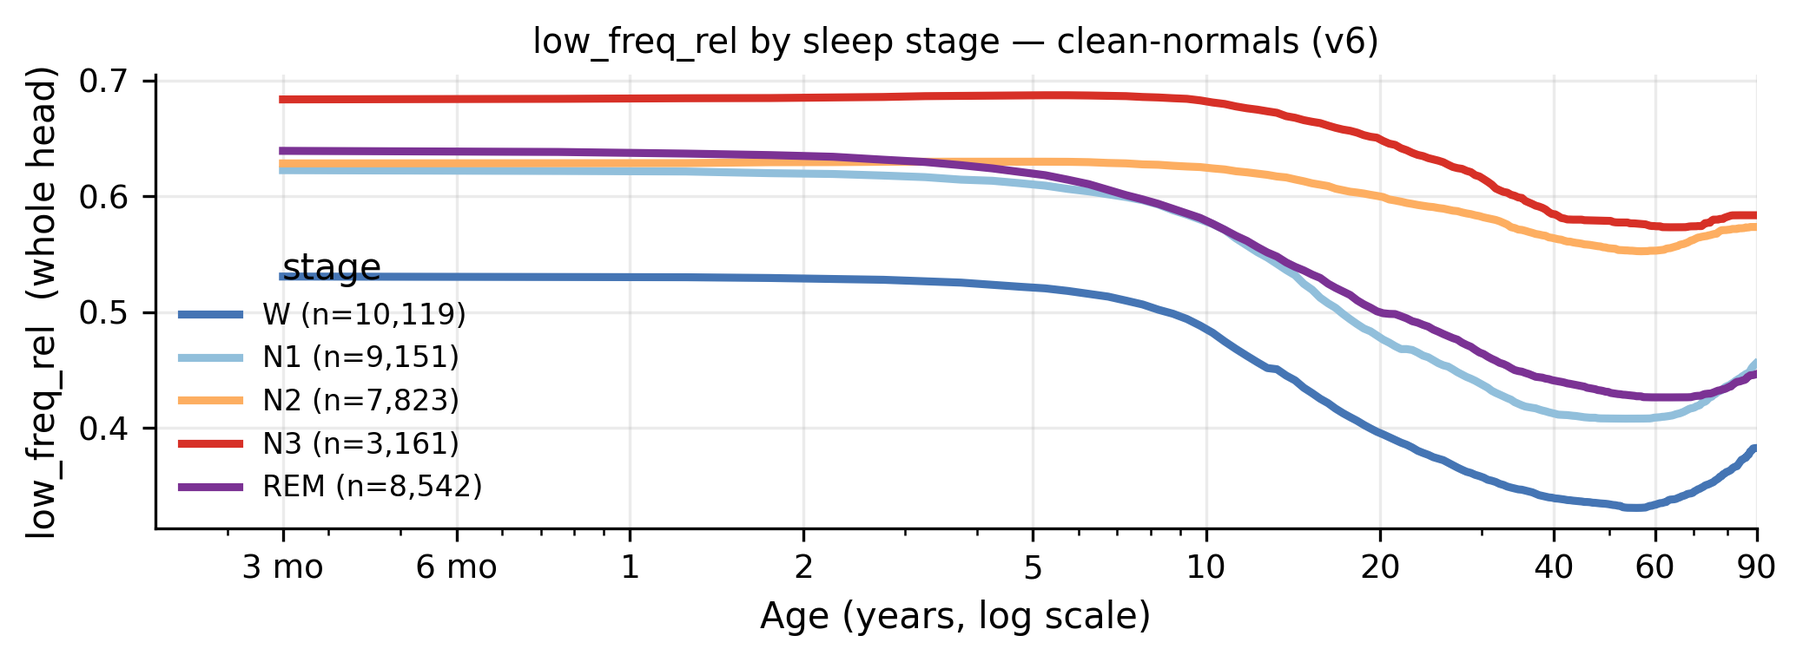
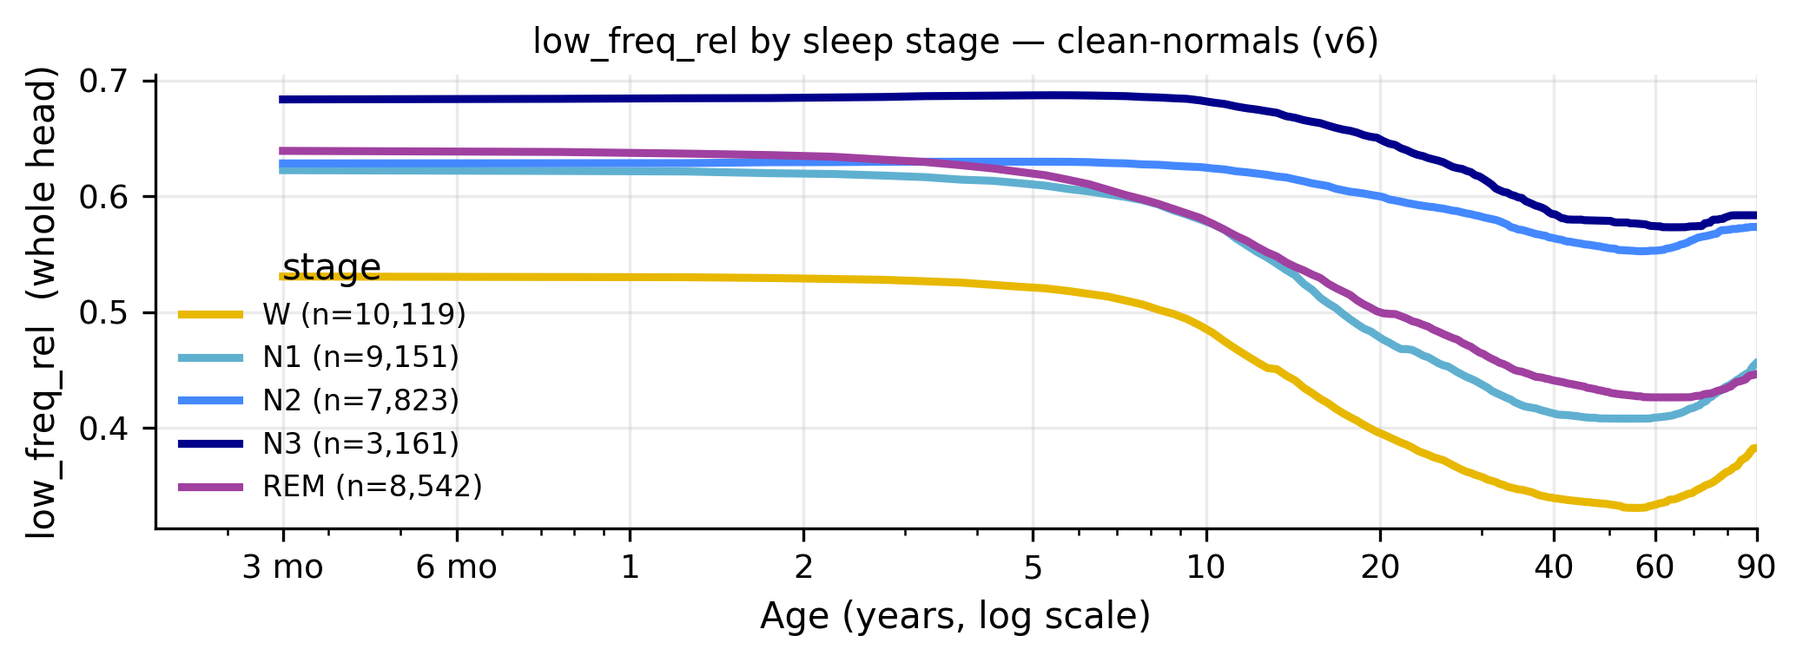
Figure-set pass: one stage palette, one ROC geometry, one expert-count convention
The figure checker's second round found the figures individually close but the SET
incoherent, with nine blocking items. Addressed:

* **Figure S9 carried the in-figure title "Figure S1"** — the actual S1 is the
  architecture schematic, so every cross-reference to the severity null would have landed
  on the wrong figure. The display items were renumbered at some point and this one was
  missed. In-figure titles are now gone from S6 and S9 as well (they belong in captions),
  which is also the class of bug that cannot recur once the title lives in one place.
* **Two contradictory sleep-stage colour maps.** Figure 1A had W gold / N3 navy; Figure S5
  had W dark blue / N3 red — same five categories, unrelated hues, so a reader who learned
  either was misled by the other. One mapping now lives in `viz/palette.STAGE` and both
  read from it.
* **Four ROC figures at four aspect ratios.** Both axes are 0-1 probability scales, so the
  chance diagonal was at 45 deg in two figures and flattened in two others, making curve
  shape and expert-cloud dispersion incomparable for purely geometric reasons.
  `aspect="equal"` on every ROC/PRC axis in scripts 54, 55, 49, sandor100 and
  vanputten_panel_s7 — and S3 got the extra height that square axes need.
* **Four phrasings of "% experts under the curve"**, with a denominator of 14-18, implying
  precision the panels do not have. Now one convention everywhere: `15/18 experts under`.
[…]

diff --git a/scripts/109_severity_null_v6.py b/scripts/109_severity_null_v6.py
@@ -1,7 +1,7 @@
 #!/usr/bin/env python3
-"""Figure S1 — "severity is a null result", regenerated on v6.
+"""Figure S9 — "severity is a null result", regenerated on v6.
 
-The manuscript's Figure S1 says: our continuous deviation score does NOT track the reader's
+The manuscript's Figure S9 says: our continuous deviation score does NOT track the reader's
 mild/moderate/marked adjective, and that this stays true when the fragile max-statistic is replaced with a
 robust upper quantile. The figure on disk was produced by scripts/86 from the LEGACY tables (pre-label-fix,
 pre-age-fix), so it was the last stale figure in the paper.
@@ -97,25 +97,32 @@ def main():
     m = rec[rec.rep_sev.notna() & rec.rep_sev.between(1, 3)]
     print(f"recordings with a reader severity adjective (clean_pair): {len(m):,}")
 
-    fig, axes = plt.subplots(1, 2, figsize=(7.1, 3.10), sharey=False)
+    fig, axes = plt.subplots(1, 2, figsize=(7.1, 3.35), sharey=False)
     lines = []
-    for ax, stat in zip(axes, ["MAX", "P95"]):
+    for i, (ax, stat) in enumerate(zip(axes, ["MAX", "P95"])):
         groups = [m[m.rep_sev == k][stat].dropna().values for k in (1, 2, 3)]
         rho, p = spearmanr(m.rep_sev.values, m[stat].values)
         kp = kruskal(*groups).pvalue if all(len(g) > 2 for g in groups) else np.nan
         ax.boxplot(groups, tick_labels=[f"{SEV_LBL[k]}\n(n={len(g)})" for k, g in zip((1, 2, 3), groups)],
                    showfliers=False, medianprops=dict(color="#d95f02", lw=2))
-        ax.set_title(f"{stat} of |z|   ·   Spearman ρ = {rho:+.3f} (p = {p:.2g})", fontsize=10)
-        ax.set_xlabel("reader's severity adjective"); ax.set_ylabel("deviation from age-matched normal (|z|)")
+        # The long y-label used to run up into this title. Both are trimmed and a panel letter added.
+        ax.set_title(f"{stat} of |z|\nSpearman ρ = {rho:+.3f} (p = {p:.2g})", fontsize=9)
+        ax.text(-0.20, 1.03, "AB"[i], transform=ax.transAxes, fontsize=11, fontweight="bold",
+                va="bottom", ha="left")
+        ax.set_xlabel("reader's severity adjective", fontsize=9)
+        ax.set_ylabel("deviation from matched normal, |z|", fontsize=9)
         ax.grid(alpha=.25, axis="y")
         med = [float(np.median(g)) for g in groups]
         lines.append(f"| {stat} | {rho:+.3f} | {p:.2g} | {kp:.2g} | " +
                      " → ".join(f"{v:.2f}" for v in med) + f" | {len(m):,} |")
         print(f"  {stat:4s} Spearman rho={rho:+.3f} (p={p:.2g})  medians mild→marked: "
               f"{med[0]:.2f} → {med[1]:.2f} → {med[2]:.2f}")
-    fig.suptitle("Figure S1 — Severity is a null result (v6, corrected labels + exact ages)", fontsize=12)
+    # NO in-figure title. It used to read "Figure S1", which is the architecture schematic -- the display
+    # items were renumbered and this one was missed, so every cross-reference to it landed on the wrong
+    # figure. Titles now live in the captions (docs/manuscript_draft.md), where a renumber cannot desync them.
     fig.tight_layout()
-    fig.savefig("figures/growth_v2/severity_recalibrated.png", dpi=300)
+    fig.tight_layout()
+    fig.savefig("figures/growth_v2/severity_recalibrated.png", dpi=300, bbox_inches="tight")
     plt.close(fig)
 
     # ---- robustness sweep -------------------------------------------------------------------------
@@ -164,7 +171,7 @@ def main():
           f"{n_sig} clear Bonferroni (p < {bonf:.2g})")
 
     Path("results/severity_null_v6.md").write_text(
-        "# Figure S1 — severity is a null result (regenerated on v6)\n\n"
+        "# Figure S9 — severity is a null result (regenerated on v6)\n\n"
         "Our continuous deviation score against the reader's own **mild / moderate / marked** adjective, on "
         f"**{len(m):,}** cleanly-paired recordings. Two summary statistics are compared: the fragile **MAX** "
         "over each recording's region×stage deviation cells (one artifactual cell can set it) and a robust "

diff --git a/scripts/55_recording_model.py b/scripts/55_recording_model.py
@@ -136,19 +136,25 @@ def main():
                 fig, (a0, a1) = plt.subplots(1, 2, figsize=(7.1, 2.96)); a0.plot([0, 1], [0, 1], "--", color="#ccc", lw=1)
                 for cur2, lab, cc in [(cm, "Morgoth", C_MORG), (cur, "LENS", C_OURS)]:
                     ci = f" [{lo:.2f}–{hi:.2f}]" if lab == "LENS" else ""
-                    a0.plot(cur2["fpr"], cur2["tpr"], color=cc, lw=2.4, label=f"{lab} (AUROC {cur2['auc']:.2f}{ci}, {cur2['ur']:.0f}% under)")
-                    a1.plot(cur2["rec"], cur2["prec"], color=cc, lw=2.4, label=f"{lab} (AP {cur2['ap']:.2f}, {cur2['up']:.0f}% under)")
+                    a0.plot(cur2["fpr"], cur2["tpr"], color=cc, lw=2.4, label=f"{lab}  {cur2['auc']:.2f}{ci}\n{round(cur2['ur']*len(pts)/100)}/{len(pts)} experts under")
+                    a1.plot(cur2["rec"], cur2["prec"], color=cc, lw=2.4, label=f"{lab}  AP {cur2['ap']:.2f}\n{round(cur2['up']*len(pts)/100)}/{len(pts)} experts under")
                 for r, p in pts.items():
                     a0.plot(p["fpr"], p["tpr"], "o", ms=5, mfc="#999", mec="k", mew=.3, alpha=.75)
                     if np.isfinite(p["precision"]): a1.plot(p["recall"], p["precision"], "o", ms=5, mfc="#999", mec="k", mew=.3, alpha=.75)
                 a0.plot([], [], "o", mfc="#999", mec="k", label=f"{len(pts)} experts")
                 a1.axhline(y.mean(), ls="--", color="#ccc", lw=1)
                 a0.set_xlabel("1 − specificity"); a0.set_ylabel("sensitivity"); a0.set_title(f"{tag.upper()} — ROC", fontsize=11)
+                # ROC and PRC axes are both 0-1 probability scales, so the chance diagonal must be at 45 deg.
+                # Without this the four ROC figures render at four aspect ratios and curve "squareness" is
+                # not comparable between them.
+                a0.set_aspect("equal", adjustable="box"); a1.set_aspect("equal", adjustable="box")
                 a1.set_xlabel("recall"); a1.set_ylabel("precision"); a1.set_title(f"{tag.upper()} — PRC", fontsize=11)
-                a0.legend(frameon=False, fontsize=6.5, loc="lower right", handlelength=1.2, borderaxespad=0.3)
+                a0.legend(frameon=False, fontsize=6.0, loc="lower right", handlelength=1.0,
+                      borderaxespad=0.2, labelspacing=0.35, handletextpad=0.5)
                 # PRC curves live along the TOP of the panel, so an upper-right legend overprints them
                 # (round-1 render: the LENS-v2 entry was struck through by its own curve). Bottom-left is empty.
-                a1.legend(frameon=False, fontsize=6.5, handlelength=1.2, borderaxespad=0.3, loc="lower left")
+                a1.legend(frameon=False, fontsize=6.0, handlelength=1.0, borderaxespad=0.2,
+                      labelspacing=0.35, handletextpad=0.5, loc="lower left")
                 for a in (a0, a1): a.set_xlim(-.02, 1.02); a.set_ylim(-.02, 1.02)
                 # Title in the caption, not in the image (Clinical Neurophysiology). The subplot titles still
                 # carry the axis identity (GENERALIZED/FOCAL - ROC/PRC), and dropping the suptitle buys the

diff --git a/scripts/vanputten_panel_s7.py b/scripts/vanputten_panel_s7.py
@@ -98,12 +98,14 @@ def main():
     vp_gen, vp_foc = vanputten_panel_indices()
     vp_by_axis = {"generalized": vp_gen, "focal": vp_foc}
 
-    fig, axes = plt.subplots(1, 2, figsize=(7.1, 2.96)); md = ["# Figure S7 — van Putten vs LENS vs Morgoth on the "
+    # Square ROC axes need vertical room: at 2.96 in the two panels collapsed to narrow squares and the
+    # legends overflowed across them. Taller canvas + two-line legend labels, as in Figure 2.
+    fig, axes = plt.subplots(1, 2, figsize=(7.1, 3.95)); md = ["# Figure S3 — van Putten vs LENS vs Morgoth on the "
         "CLEAN ON-100 expert panel (fair benchmark; expert-majority labels)\n",
         "LENS = production code path (gen: scripts/54 MIL top-5; focal: scripts/66), identical to Figure 2. "
         "van Putten = best index per axis recomputed on the panel. Recording-level bootstrap 95% CIs.\n",
         "| axis | method | AUROC [95% CI] | % experts under ROC |", "|---|---|---|---|"]
-    for ax, axis in zip(axes, ["focal", "generalized"]):
+    for axi, (ax, axis) in enumerate(zip(axes, ["focal", "generalized"])):
         wide, morg = em[axis]
         idx = wide.index
         y_all = (wide.mean(axis=1).to_numpy() >= 0.5).astype(int)
@@ -124,15 +126,20 @@ def main():
             lo, hi = m54.boot_ci(y, s)
             short = name.split(" (")[0]
             ax.plot(cur["fpr"], cur["tpr"], color=c, lw=2.4,
-                    label=f"{short} (AUROC {cur['auc']:.2f} [{lo:.2f}–{hi:.2f}], {cur['ur']:.0f}% under)")
+                    label=f"{short}  {cur['auc']:.2f} [{lo:.2f}\u2013{hi:.2f}]\n"
+                          f"{round(cur['ur']*len(pts)/100)}/{len(pts)} experts under")
             md.append(f"| {axis} | {name} | {cur['auc']:.3f} [{lo:.3f}, {hi:.3f}] | {cur['ur']:.0f}% |")
         idx = idx[common]
         for p in pts.values():
             ax.plot(p["fpr"], p["tpr"], "o", ms=5, mfc="#999", mec="k", mew=.3, alpha=.75)
         ax.plot([], [], "o", mfc="#999", mec="k", label=f"{len(pts)} experts")
+        ax.set_aspect("equal", adjustable="box")   # match Figures 2/3/S7: chance at 45 deg
+        ax.text(-0.22, 1.04, "AB"[axi], transform=ax.transAxes, fontsize=11, fontweight="bold",
+                va="bottom", ha="left")
         ax.set_xlabel("1 − specificity"); ax.set_ylabel("sensitivity"); ax.set_xlim(-.02, 1.02); ax.set_ylim(-.02, 1.02)
-        ax.set_title(f"{axis.upper()} slowing — n={len(idx)}, {int(y.sum())} pos", fontsize=11)
-        ax.legend(frameon=False, fontsize=8, loc="lower right")
+        ax.set_title(f"{axis.upper()} slowing\nn={len(idx)}, {int(y.sum())} positive", fontsize=9)
+        ax.legend(frameon=False, fontsize=6.0, loc="lower right", handlelength=1.0,
+                  borderaxespad=0.2, labelspacing=0.35, handletextpad=0.5)
     # Title in the Figure S3 caption, not in the image (Clinical Neurophysiology).
     fig.tight_layout()
     fig.savefig(FIG / "vanputten_panel_s7.png", dpi=300, bbox_inches="tight"); plt.close(fig)

diff --git a/scripts/49_occasion_allstage_localized.py b/scripts/49_occasion_allstage_localized.py
@@ -137,17 +137,28 @@ def evaluate(T, V, name, ax, cols, color):
     for r, pp in pts.items():
         a0.plot(pp["fpr"], pp["tpr"], "o", ms=6, mfc=("#888" if fr.get(r) else "#e41a1c"), mec="k", mew=.4, alpha=.85)
     a0.plot([], [], "o", mfc="#888", mec="k", label=f"under ({sum(fr.values())})"); a0.plot([], [], "o", mfc="#e41a1c", mec="k", label=f"above ({len(pts)-sum(fr.values())})")
-    a0.set_xlabel("1 − specificity"); a0.set_ylabel("sensitivity"); a0.set_title(f"{name.upper()} — ROC\n{100*pu_roc:.0f}% of {len(pts)} experts under", fontsize=10)
+    a0.set_aspect("equal", adjustable="box")   # match Figures 2/3/S3: chance at 45 deg
+    a0.set_xlabel("1 − specificity"); a0.set_ylabel("sensitivity")
+    a0.set_title(f"{name.upper()} — ROC\n{sum(fr.values())}/{len(pts)} experts under", fontsize=9.5)
     a0.legend(frameon=False, fontsize=7.5, loc="lower right"); a0.set_xlim(-.02, 1.02); a0.set_ylim(-.02, 1.02)
     a1.plot(rec, prec, color=color, lw=2.4, label=f"LENS (AP {ap:.2f})"); a1.axhline(y.mean(), ls="--", color="#bbb", lw=1, label=f"prev {y.mean():.2f}")
     for r, pp in pts.items():
         if np.isfinite(pp["precision"]):
             a1.plot(pp["recall"], pp["precision"], "o", ms=6, mfc=("#888" if fp.get(r) else "#e41a1c"), mec="k", mew=.4, alpha=.85)
     a1.plot([], [], "o", mfc="#888", mec="k", label=f"under ({sum(fp.values())})"); a1.plot([], [], "o", mfc="#e41a1c", mec="k", label=f"above ({len(fp)-sum(fp.values())})")
-    a1.set_xlabel("recall"); a1.set_ylabel("precision"); a1.set_title(f"{name.upper()} — PRC\n{100*pu_pr:.0f}% of {len(fp)} under", fontsize=10)
+    a1.set_aspect("equal", adjustable="box")
+    a1.set_xlabel("recall"); a1.set_ylabel("precision")
+    a1.set_title(f"{name.upper()} — PRC\n{sum(fp.values())}/{len(fp)} experts under", fontsize=9.5)
     a1.legend(frameon=False, fontsize=7.5, loc="upper right"); a1.set_xlim(-.02, 1.02); a1.set_ylim(-.02, 1.02)
-    fig.suptitle(f"Morgoth-FREE {'+'.join(STAGESET)} {name} detector vs {len(pts)} experts (LOO-CV)", fontsize=10.5)
-    fig.tight_layout(rect=[0, 0, 1, 0.93]); fig.savefig(FIG / f"s0_occasion_ours_v4_{name}.png", dpi=300); plt.close(fig)
+    # No in-figure title, and no "Morgoth-FREE": across the figure set "Morgoth" already names the sleep
+    # stager (Figure S1) and the reference detector (Figures 2, 3, S3), and using it a third time as a
+    # negation made it unclear whether this evaluates the same LENS as Figure 2. It does. Title is in the
+    # Figure S7 caption.
+    for k, a in enumerate((a0, a1)):
+        a.text(-0.14, 1.02, chr(65 + k), transform=a.transAxes, fontsize=11, fontweight="bold",
+               va="bottom", ha="left")
+    fig.tight_layout()
+    fig.savefig(FIG / f"s0_occasion_ours_v4_{name}.png", dpi=300, bbox_inches="tight"); plt.close(fig)
     return f"| {name} | {'+'.join(STAGESET)} | {int(y.sum())}/{len(y)} | {auc:.3f} | {ap:.3f} | {len(pts)} | **{100*pu_roc:.0f}%** | **{100*pu_pr:.0f}%** |"
 
 

diff --git a/scripts/sandor100_external_validation.py b/scripts/sandor100_external_validation.py
@@ -126,17 +126,19 @@ def eval_axis(scores, axis, mr_file, ax):
         cur = m54.panel_curve(None, y[ok], s[ok], pts, c, name)
         lo, hi = m54.boot_ci(y[ok], s[ok])
         ax.plot(cur["fpr"], cur["tpr"], color=c, lw=2.4,
-                label=f"{name} (AUROC {cur['auc']:.2f} [{lo:.2f}–{hi:.2f}], {cur['ur']:.0f}% under)")
+                label=f"{name} (AUROC {cur['auc']:.2f} [{lo:.2f}\u2013{hi:.2f}], "
+                          f"{round(cur['ur']*len(pts)/100)}/{len(pts)} experts under)")
         res.append((name, cur["auc"], lo, hi, cur["ur"], cur["ap"]))
     for r, p in pts.items():
         ax.plot(p["fpr"], p["tpr"], "o", ms=5, mfc="#999", mec="k", mew=.3, alpha=.75)
     ax.plot([], [], "o", mfc="#999", mec="k", label=f"{len(pts)} experts")
+    ax.set_aspect("equal", adjustable="box")   # 0-1 on both axes: chance must sit at 45 deg
     ax.set_xlabel("1 − specificity"); ax.set_ylabel("sensitivity"); ax.set_xlim(-.02, 1.02); ax.set_ylim(-.02, 1.02)
     # At page width the two titles collide and the long legend labels overrun the y-axis, so the title wraps
     # onto two lines and the legend is sized to sit inside its own axes.
     ttl = "FOCAL slowing" if axis == "focal" else "GENERALIZED slowing"
     ax.set_title(f"{ttl}\nn={len(m)}, {int(y.sum())} positive", fontsize=8.5)
-    ax.legend(frameon=False, fontsize=5.6, loc="lower right", handlelength=1.2, borderaxespad=0.3)
+    ax.legend(frameon=False, fontsize=6.2, loc="lower right", handlelength=1.2, borderaxespad=0.3)
     ax.tick_params(labelsize=7)
     ax.xaxis.label.set_size(8); ax.yaxis.label.set_size(8)
     return res, len(m), int(y.sum()), len(pts)
@@ -152,8 +154,12 @@ def main():
     fig, (a0, a1) = plt.subplots(1, 2, figsize=(7.1, 2.96))
     rf, nf, pf, ne = eval_axis(scores, "focal", "FocalSlowingOutput_Morgoth_ScoreAI_experts.xlsx", a0)
     rg, ng, pg, _ = eval_axis(scores, "generalized", "GenSlowingOutput_Morgoth_ScoreAI_experts.xlsx", a1)
-    fig.suptitle(f"SAI-100 external validation — LENS vs SCORE-AI vs Morgoth vs {ne} experts", fontsize=9.5)
-    fig.tight_layout(rect=[0, 0, 1, 0.93]); fig.savefig(FIG / "sandor100_slowing.png", dpi=300); plt.close(fig)
+    # Title in the Figure 3 caption (Clinical Neurophysiology); panel letters so the two axes are citable.
+    for k, a in enumerate((a0, a1)):
+        a.text(-0.14, 1.02, chr(65 + k), transform=a.transAxes, fontsize=11, fontweight="bold",
+               va="bottom", ha="left")
+    fig.tight_layout()
+    fig.savefig(FIG / "sandor100_slowing.png", dpi=300, bbox_inches="tight"); plt.close(fig)
 
     md = ["# SAI-100 (SCORE-AI validation set) — external validation: LENS vs SCORE-AI vs Morgoth vs experts\n",
           f"Full pipeline (extraction → **Morgoth ss_hm_1 sleep staging** → age+stage-matched deviation → the "

diff --git a/scripts/54_single_model_train_eval.py b/scripts/54_single_model_train_eval.py
@@ -167,8 +167,8 @@ def main():
                 ok = np.isfinite(s) & np.isfinite(y.values)
                 cur = panel_curve(a0, y.values[ok], s[ok], pts, cc, ver)
                 lo, hi = boot_ci(y.values[ok], s[ok])
-                a0.plot(cur["fpr"], cur["tpr"], color=cc, lw=2.4, label=f"{ver} (AUROC {cur['auc']:.2f} [{lo:.2f}–{hi:.2f}], {cur['ur']:.0f}% under)")
-                a1.plot(cur["rec"], cur["prec"], color=cc, lw=2.4, label=f"{ver} (AP {cur['ap']:.2f}, {cur['up']:.0f}% under)")
+                a0.plot(cur["fpr"], cur["tpr"], color=cc, lw=2.4, label=f"{ver}  {cur['auc']:.2f} [{lo:.2f}\u2013{hi:.2f}]\n{round(cur['ur']*len(pts)/100)}/{len(pts)} experts under")
+                a1.plot(cur["rec"], cur["prec"], color=cc, lw=2.4, label=f"{ver}  AP {cur['ap']:.2f}\n{round(cur['up']*len(pts)/100)}/{len(pts)} experts under")
                 md.append(f"| {ds} | {tag} | {ver} | {cur['auc']:.3f} [{lo:.3f}, {hi:.3f}] | {cur['ap']:.3f} | "
                           f"{cur['ur']:.0f}% | {cur['up']:.0f}% |")
             for r, p in pts.items():
@@ -178,11 +178,17 @@ def main():
             a0.plot([], [], "o", mfc="#999", mec="k", label=f"{len(pts)} experts")
             a1.axhline(y.mean(), ls="--", color="#ccc", lw=1)
             a0.set_xlabel("1 − specificity"); a0.set_ylabel("sensitivity"); a0.set_title(f"{tag.upper()} — ROC", fontsize=11)
+            # ROC and PRC axes are both 0-1 probability scales, so the chance diagonal must be at 45 deg.
+            # Without this the four ROC figures render at four aspect ratios and curve "squareness" is
+            # not comparable between them.
+            a0.set_aspect("equal", adjustable="box"); a1.set_aspect("equal", adjustable="box")
             a1.set_xlabel("recall"); a1.set_ylabel("precision"); a1.set_title(f"{tag.upper()} — PRC", fontsize=11)
-            a0.legend(frameon=False, fontsize=6.5, loc="lower right", handlelength=1.2, borderaxespad=0.3)
+            a0.legend(frameon=False, fontsize=6.0, loc="lower right", handlelength=1.0,
+                  borderaxespad=0.2, labelspacing=0.35, handletextpad=0.5)
             # PRC curves live along the TOP of the panel, so an upper-right legend overprints them
             # (round-1 render: the LENS-v2 entry was struck through by its own curve). Bottom-left is empty.
-            a1.legend(frameon=False, fontsize=6.5, handlelength=1.2, borderaxespad=0.3, loc="lower left")
+            a1.legend(frameon=False, fontsize=6.0, handlelength=1.0, borderaxespad=0.2,
+                  labelspacing=0.35, handletextpad=0.5, loc="lower left")
             for a in (a0, a1):
                 a.set_xlim(-.02, 1.02); a.set_ylim(-.02, 1.02)
             # Title in the caption, not in the image (Clinical Neurophysiology). The subplot titles still

diff --git a/scripts/111_curve_bank_v6.py b/scripts/111_curve_bank_v6.py
@@ -25,7 +25,7 @@ FEATURES = ["log_delta", "log_theta", "rel_delta", "rel_theta", "DAR", "TAR", "D
 REGIONS = ["whole_head", "L_temporal", "R_temporal", "L_parasagittal", "R_parasagittal"]
 STAGES = ["W", "N1", "N2", "N3", "REM"]
 GRID = np.arange(0.25, 90, 0.5)
-from morgoth_slowing.viz.palette import NORMAL as C_NORM, ABNORMAL as C_ABN
+from morgoth_slowing.viz.palette import NORMAL as C_NORM, ABNORMAL as C_ABN, stage_colors
 XT = [0.25, 0.5, 1, 2, 5, 10, 20, 40, 60, 90]
 XL = ["3 mo", "6 mo", "1", "2", "5", "10", "20", "40", "60", "90"]
 
@@ -103,7 +103,9 @@ def main():
         # size. Page-width and short keeps the stack inside the page at full width.
         fig, ax = plt.subplots(figsize=(7.1, 2.65))
         drew = False
-        for st, col in zip(STAGES, ["#4575b4", "#91bfdb", "#fdae61", "#d73027", "#7b3294"]):
+        # Was an unrelated blue/orange/red ramp, which contradicted Figure 1A on the same five
+        # categories. One mapping, from the shared palette.
+        for st, col in zip(STAGES, stage_colors(STAGES)):
             s = d[(d.stage == st) & (d.region == "whole_head") & (d.clean_normal == True)]   # noqa: E712
             if len(s) < 200:
                 continue

diff --git a/src/morgoth_slowing/viz/palette.py b/src/morgoth_slowing/viz/palette.py
@@ -21,6 +21,19 @@ ABNORMAL = "#c8443c"     # report-slowing / abnormal (brick red)
 CHANCE = "#bbbbbb"       # diagonal / chance reference lines
 
 
+# --- sleep stages -------------------------------------------------------------------------------------
+# ONE mapping for the five stages, everywhere. Figure 1A and Figure S5 used to disagree completely --
+# W was yellow in one and dark blue in the other, N3 navy in one and red in the other -- so a reader who
+# learned either mapping was actively misled by the other. Ordered light-to-dark with depth, REM set apart.
+STAGE = {"W": "#E8B800", "N1": "#5FB0D0", "N2": "#4488FF", "N3": "#00008B", "REM": "#A040A0"}
+STAGE_ORDER = ("W", "N1", "N2", "N3", "REM")
+
+
+def stage_colors(stages=STAGE_ORDER):
+    """Colours for a stage sequence, in the caller's order."""
+    return [STAGE[s] for s in stages]
+
+
 # --- shared publication style (Tufte-leaning) ---------------------------------------------------------------
 # Applied once at import so every figure script that imports this module inherits the same look: no top/right
 # spines (drop the box), frameless legends, thin axes, and one consistent font ladder. Individual scripts can

diff --git a/scripts/44_segment_deviation_summary.py b/scripts/44_segment_deviation_summary.py
@@ -105,10 +105,9 @@ def main():
         if j == 0:
             ax.set_ylabel("per-segment deviation z (median, IQR)")
         ax.legend(frameon=False, fontsize=8)
-    fig.suptitle("Per-segment deviation field is stage-calibrated (normals ~0) and discriminative "
-                 "(abnormals shifted up) — whole head", fontsize=11)
-    fig.tight_layout(rect=[0, 0, 1, 0.94])
-    fig.savefig(FIG / "s2_segment_deviation.png", dpi=300); plt.close(fig)
+    # Title in the Figure S6 caption, not in the image (Clinical Neurophysiology).
+    fig.tight_layout()
+    fig.savefig(FIG / "s2_segment_deviation.png", dpi=300, bbox_inches="tight"); plt.close(fig)
     (RES / "s2_segment_deviation.md").write_text("\n".join(md))
     print("\n".join(md)); print("\nwrote figures/story/s2_segment_deviation.png + results/story/s2_segment_deviation.md")
 

diff --git a/scripts/76_keystone_growth_grid.py b/scripts/76_keystone_growth_grid.py
@@ -28,7 +28,8 @@ REGION = os.environ.get("REGION", "occipital").lower()
 CHANS = CENTRAL if REGION == "central" else OCCIPITAL
 REGION_LABEL = "central (C3/C4)" if REGION == "central" else "occipital (O1/O2)"
 STAGES = ["W", "N1", "N2", "N3", "REM"]
-YODA = {"W": "#E8B800", "N1": "#5FB0D0", "N2": "#4488FF", "N3": "#00008B", "REM": "#A040A0"}
+from morgoth_slowing.viz.palette import STAGE as YODA   # the one stage mapping, shared with S5
+# (kept under the old local name so the plotting code below is untouched)
 BANDS = [(3, 97), (10, 90), (25, 75)]
 # Review C100: a single log10 age axis compresses all of adulthood into the last fifth of the panel, so the
 # aging trend cannot be read. Each cell is therefore split: log-spaced development to SPLIT_AGE, then a

diff --git a/docs/manuscript_draft.md b/docs/manuscript_draft.md
@@ -312,9 +312,9 @@ item are listed once, in the provenance table at the end of this section, rather
 
 - **Figure 1 --- Lifespan, sleep-stage-resolved normative curves for EEG slowing, in curve and across the scalp.** **(A)** Percentile growth curves for three slowing features --- relative delta, theta/alpha ratio (TAR) and delta/alpha ratio (DAR) --- at the occipital derivation (O1/O2), one row per sleep stage (W, N1, N2, N3, REM). Sexes are pooled. Solid line: the GAMLSS median (Box-Cox-t for the positive-support features, normal family for the real-line log features; §2.4). Dashed line: a model-free rolling median, shown so the fit can be judged against the data rather than only against itself. Shaded bands, from lightest to darkest: p3--p97, p10--p90 and p25--p75. Grey points are individual recordings. Each cell splits the age axis in two, as review requested: log-spaced from 1 month to 20 years, where development is fast, then linear from 20 to 95 years. AUROC above each column is that feature's discrimination of reported slowing from clean-normal, for orientation only; the detection results are Figure 2. **(B)** The same normative picture across the scalp: median relative delta per 10--20 electrode (median over patients of the mean of the bipolar chains incident on that electrode), by age band (columns) and sleep stage (rows), in 10,158 clean-normal recordings --- the subset of the 10,216-recording normal reference (§3.2) that has a usable per-electrode channel table; 58 lack one. Each row carries its own colour scale, because the physiological range differs by an order of magnitude between wake and N3; compare within a row, not between rows. n above each map is the number of recordings contributing to it.
 
-- **Figure 2 --- Detection of slowing on the ON-100 expert panel, against 18 experts and a foundation-model gate.** ROC (left) and precision--recall (right) for **(A)** generalized and **(B)** focal slowing, scored against the expert-majority label. Curves: the report-trained LENS detector (orange; v2, the multiple-instance model, is LENS --- v1, the broadcast-label ablation, is shown only in (A) to isolate what the multiple-instance step buys, §2.7) and the Morgoth foundation-model gate (purple). Grey circles are the individual experts' operating points; "% under" is the fraction of them lying below the curve. Brackets are recording-level bootstrap 95% CIs. The focal panel shows 17 experts and the generalized panel 18: an expert contributes an operating point only if they read at least five recordings and saw at least one positive and one negative case, and at the 12% focal base rate one of the 18 saw no focal-positive case (§3.4a). Dashed grey lines are chance (the diagonal; the base rate).
+- **Figure 2 --- Detection of slowing on the ON-100 expert panel, against 18 experts and a foundation-model gate.** ROC (left) and precision--recall (right) for **(A)** generalized and **(B)** focal slowing, scored against the expert-majority label. Curves: the report-trained LENS detector (orange; v2, the multiple-instance model, is LENS --- v1, the broadcast-label ablation, is shown only in (A) to isolate what the multiple-instance step buys, §2.7) and the Morgoth foundation-model gate (purple). Grey circles are the individual experts' operating points, each graded against the leave-one-out consensus of the other readers; the legend gives how many of them lie below the curve, as a count over the number contributing an operating point. Brackets are recording-level bootstrap 95% CIs; on these panels each recording is a distinct patient, so recording-level and patient-clustered resampling coincide. The focal panel shows 17 experts and the generalized panel 18: an expert contributes an operating point only if they read at least five recordings and saw at least one positive and one negative case, and at the 12% focal base rate one of the 18 saw no focal-positive case (§3.4a). Dashed grey lines are chance (the diagonal; the base rate).
 
-- **Figure 3 --- Second-site external validation on SAI-100, against SCORE-AI, the foundation-model gate and 14 experts.** ROC for focal (left) and generalized (right) slowing on the 98 readable recordings of the SCORE-AI validation holdout, scored against the expert-vote majority. The workbook's own focal summary label is corrupted and was recomputed from the individual votes (§3.4b). LENS beats SCORE-AI for focal slowing and is last of three for generalized --- the negative result §4 discusses. Grey circles are the 14 individual experts; brackets are recording-level bootstrap 95% CIs.
+- **Figure 3 --- Second-site external validation on SAI-100, against SCORE-AI, the foundation-model gate and 14 experts.** ROC for focal (left) and generalized (right) slowing on the 98 readable recordings of the SCORE-AI validation holdout, scored against the expert-vote majority. The workbook's own focal summary label is corrupted and was recomputed from the individual votes (§3.4b). LENS beats SCORE-AI for focal slowing and is last of three for generalized --- the negative result §4 discusses. Grey circles are the 14 individual experts; the legend gives experts-under-curve as a count, and brackets are recording-level bootstrap 95% CIs, as in Figure 2.
 
 - **Figure 4 --- Focal slowing: what LENS says, beside what the EEG shows and what the clinician wrote.** Three recordings with exclusively focal slowing, spanning degree (5.1, 2.9 and 1.9 SD above the matched normal) and vigilance state (W, N1, REM). Each shows an actual 10-second longitudinal-bipolar segment (1--30 Hz band-pass, 60 Hz notch; calibration bar 100 µV and 1 s), with the derivations containing the electrode LENS names as maximal tinted, so the claim can be checked against the trace. Beneath each: LENS's one-line finding (orange) beside the *impression* sentence of the clinical report (grey), both verbatim and de-identified. The displayed window is the segment where deviation at the claimed region peaks within the dominant sleep stage --- an illustrative peak, not a typical epoch. Examples are restricted to clearly lateralized recordings (|left − right asymmetry| ≥ 1.5 SD) so the displayed segment reliably matches the localization. LENS's full generated paragraph and the report's full description sentences, for all six examples, are **Table S4**.
 
@@ -330,19 +330,19 @@ item are listed once, in the provenance table at the end of this section, rather
 
 - **Figure S2 --- The normative curves are calibrated on data never used to fit them.** Observed versus nominal centile, by sleep stage (rows) and feature (columns). The dashed diagonal is perfect calibration; bands are patient-clustered bootstrap 95% CIs. Blue: 7,216 held-out clean-normal recordings from 6,779 patients --- the complement of the seeded 3,000-recording sample the norms are fitted on. Orange: the 71 ON-100 recordings with no expert-majority slowing, an institutionally external reference.
 
-- **Figure S3 --- LENS against the published van Putten qEEG lineage on the clean expert panel.** ROC per axis on ON-100, expert-majority labels, every index recomputed on the same signals. LENS leads on generalized slowing (0.961 against the best whole-head slowing ratio, DAR, at 0.817) and ties the foundation-model gate on focal (0.908 against the best interhemispheric-asymmetry index, an r-sBSI analogue, at 0.825).
+- **Figure S3 --- LENS against the published van Putten qEEG lineage on the clean expert panel.** **(A)** focal, **(B)** generalized, on ON-100 against expert-majority labels, every index recomputed on the same signals. **This is not an independent replication of Figure 2: it is the same cohort, the same labels and the same LENS and gate curves, with the best van Putten index per axis added as a third comparator.** Read Figure 2 for LENS against the panel and the gate, and this figure for LENS against the published qEEG lineage. LENS leads on generalized slowing (0.961 against the best whole-head slowing ratio, DAR, at 0.817) and ties the foundation-model gate on focal (0.908 against the best interhemispheric-asymmetry index, an r-sBSI analogue, at 0.825); on the focal axis those two intervals overlap (§3.5).
 
 - **Figure S4 --- Scalp topography of the theta/alpha ratio by age and sleep stage.** The TAR companion to Figure 1B, on the same 10,158 clean-normal recordings and read the same way (per-row colour scale), showing that the regional development pattern is not specific to relative delta.
 
-- **Figure S5 --- The stage-resolved curve bank, whole head.** Median lifespan curves per sleep stage for relative delta **(A)**, TAR **(B)** and DAR **(C)** in clean-normal recordings, with n per stage in the legend. This is the whole-head view of what Figure 1A shows per occipital derivation, and it is where the W ≈ N1 < N2 < N3 ordering of physiological slowing is read off.
+- **Figure S5 --- The stage-resolved curve bank, whole head.** Median lifespan curves per sleep stage for relative delta **(A)**, TAR **(B)** and DAR **(C)** in clean-normal recordings, with n per stage in the legend. Stage colours are the same throughout the paper (W gold, N1 light blue, N2 blue, N3 navy, REM purple; Figure 1A uses the identical mapping). This is the whole-head view of what Figure 1A shows per occipital derivation, and it is where the W ≈ N1 < N2 < N3 ordering of physiological slowing is read off.
 
 - **Figure S6 --- The per-segment deviation field is both calibrated and discriminative.** Distribution of whole-head deviation z by sleep stage: clean-normal recordings sit near zero in every stage, while recordings the report calls abnormal are shifted upward in every stage, most in wake and N1.
 
-- **Figure S7 --- Why the two detection axes need different read-outs.** The localized focal detector on the ON-100 panel, showing that a detector built on regional localization rather than on overall amount is what the focal axis requires; the generalized axis pools a diffuse whole-head amount instead (§3.4a).
+- **Figure S7 --- Why the two detection axes need different read-outs.** The localized focal detector on the ON-100 panel --- **(A)** ROC, **(B)** precision--recall --- showing that a detector built on regional localization rather than on overall amount is what the focal axis requires; the generalized axis pools a diffuse whole-head amount instead (§3.4a). This is the same LENS pipeline as Figure 2, restricted to wake and N1 and cross-validated within the panel, so its numbers are not comparable with Figure 2's report-trained ones. Grey points are experts below the curve, red above.
 
 - **Figure S8 --- The remaining description contrasts (D1, D3, D4, D6).** **(A)** Type and amount: the delta- versus theta-excess plane, and the deviation split by the band word the report uses. **(B)** Anterior-minus-posterior deviation z, split by the topography the report names. **(C)** Persistence: the distribution of the fraction of segments flagged abnormal (with the ACNS occasional→continuous bins marked) and of the longest continuous run, for report-slowing recordings against clean-normals. **(D)** The fraction of generated descriptor words that match the report, per component, against the one-in-three chance rate. As in Figure 6, points with bars are means with bootstrap 95% CIs.
 
-- **Figure S9 --- Severity grade is a null result.** The recalibrated severity contrast: the deviation field does not recover the clinician's severity adjective, across the sweep reported in §3.9, which is why no severity claim is made.
+- **Figure S9 --- Severity grade is a null result.** Deviation from the age- and stage-matched normal, |z|, against the severity adjective the reader wrote, summarised **(A)** by each recording's maximum and **(B)** by a robust upper quantile (P95). Boxes are median and IQR with whiskers at 1.5 × IQR and outliers suppressed; n per group is on the axis. Mild and moderate --- the two commonest levels --- are indistinguishable, and only the small *marked* tail lifts; the Spearman correlations above each panel are the ρ ≈ 0.10 of §3.9. This is why no severity claim is made.
 
 *Supplementary tables:*
 

diff --git a/figures/manuscript/MANIFEST.md b/figures/manuscript/MANIFEST.md
@@ -7,18 +7,18 @@ Printed size is what the figure measures once it is scaled to fit Clinical Neuro
 | submission figure | panels | producing script(s) | printed mm | type scale |
 |---|---|---|---|---|
 | `Figure1_normative_model.png` | 2 (keystone_growth_grid.png, topo_rel_delta_by_age_stage.png) | `scripts/76, 77` | 155 x 240 | 1.13 |
-| `Figure2_detection.png` | 2 (s0d_single_occasion_generalized.png, s0e_occasion_focal.png) | `scripts/54, 55, 66` | 190 x 170 | 1.39 |
-| `Figure3_sandor_external.png` | 1 (sandor100_slowing.png) | `scripts/sandor100_external_validation` | 190 x 83 | 1.34 |
+| `Figure2_detection.png` | 2 (s0d_single_occasion_generalized.png, s0e_occasion_focal.png) | `scripts/54, 55, 66` | 190 x 188 | 1.39 |
+| `Figure3_sandor_external.png` | 1 (sandor100_slowing.png) | `scripts/sandor100_external_validation` | 190 x 88 | 1.34 |
 | `Figure4_example_focal.png` | 1 (s4_examples_eeg_focal.png) | `scripts/62, 63` | 171 x 240 | 1.21 |
 | `Figure5_example_generalized.png` | 1 (s4_examples_eeg_generalized.png) | `scripts/62, 63` | 171 x 240 | 1.21 |
 | `Figure6_description_contrast.png` | 2 (s4_d2.png, s4_d5.png) | `scripts/57` | 190 x 161 | 1.39 |
 | `Figure7_sleep_underreporting.png` | 1 (v4a_wake_sleep.png) | `scripts/fig6_sleep_naming (95b stat)` | 190 x 138 | 1.34 |
 | `FigureS1_architecture.png` | 1 (architecture.png) | `scripts/architecture_diagram` | 190 x 143 | 1.34 |
-| `FigureS6_deviation_field.png` | 1 (s2_segment_deviation.png) | `scripts/44` | 190 x 67 | 1.34 |
+| `FigureS6_deviation_field.png` | 1 (s2_segment_deviation.png) | `scripts/44` | 190 x 65 | 1.34 |
 | `FigureS5_curvebank.png` | 3 (rel_delta__whole_head.png, TAR__whole_head.png, DAR__whole_head.png) | `scripts/111` | 190 x 226 | 1.40 |
 | `FigureS8_description_panels.png` | 4 (s4_d1.png, s4_d3.png, s4_d4.png, s4_d6.png) | `scripts/57, 58` | 163 x 240 | 1.21 |
-| `FigureS7_localized_focal.png` | 1 (s0_occasion_ours_v4_focal.png) | `scripts/49` | 190 x 83 | 1.34 |
-| `FigureS9_severity_null.png` | 1 (severity_recalibrated.png) | `scripts/109` | 190 x 87 | 1.34 |
-| `FigureS3_vanputten.png` | 1 (vanputten_panel_s7.png) | `scripts/vanputten_panel_s7` | 190 x 72 | 1.34 |
+| `FigureS7_localized_focal.png` | 1 (s0_occasion_ours_v4_focal.png) | `scripts/49` | 190 x 92 | 1.34 |
+| `FigureS9_severity_null.png` | 1 (severity_recalibrated.png) | `scripts/109` | 190 x 91 | 1.34 |
+| `FigureS3_vanputten.png` | 1 (vanputten_panel_s7.png) | `scripts/vanputten_panel_s7` | 190 x 102 | 1.34 |
 | `FigureS4_topoplot_TAR.png` | 1 (topo_TAR_by_age_stage.png) | `scripts/77` | 190 x 116 | 1.34 |
 | `FigureS2_centile_calibration.png` | 1 (s9_centile_calibration.png) | `scripts/78` | 190 x 217 | 1.34 |
